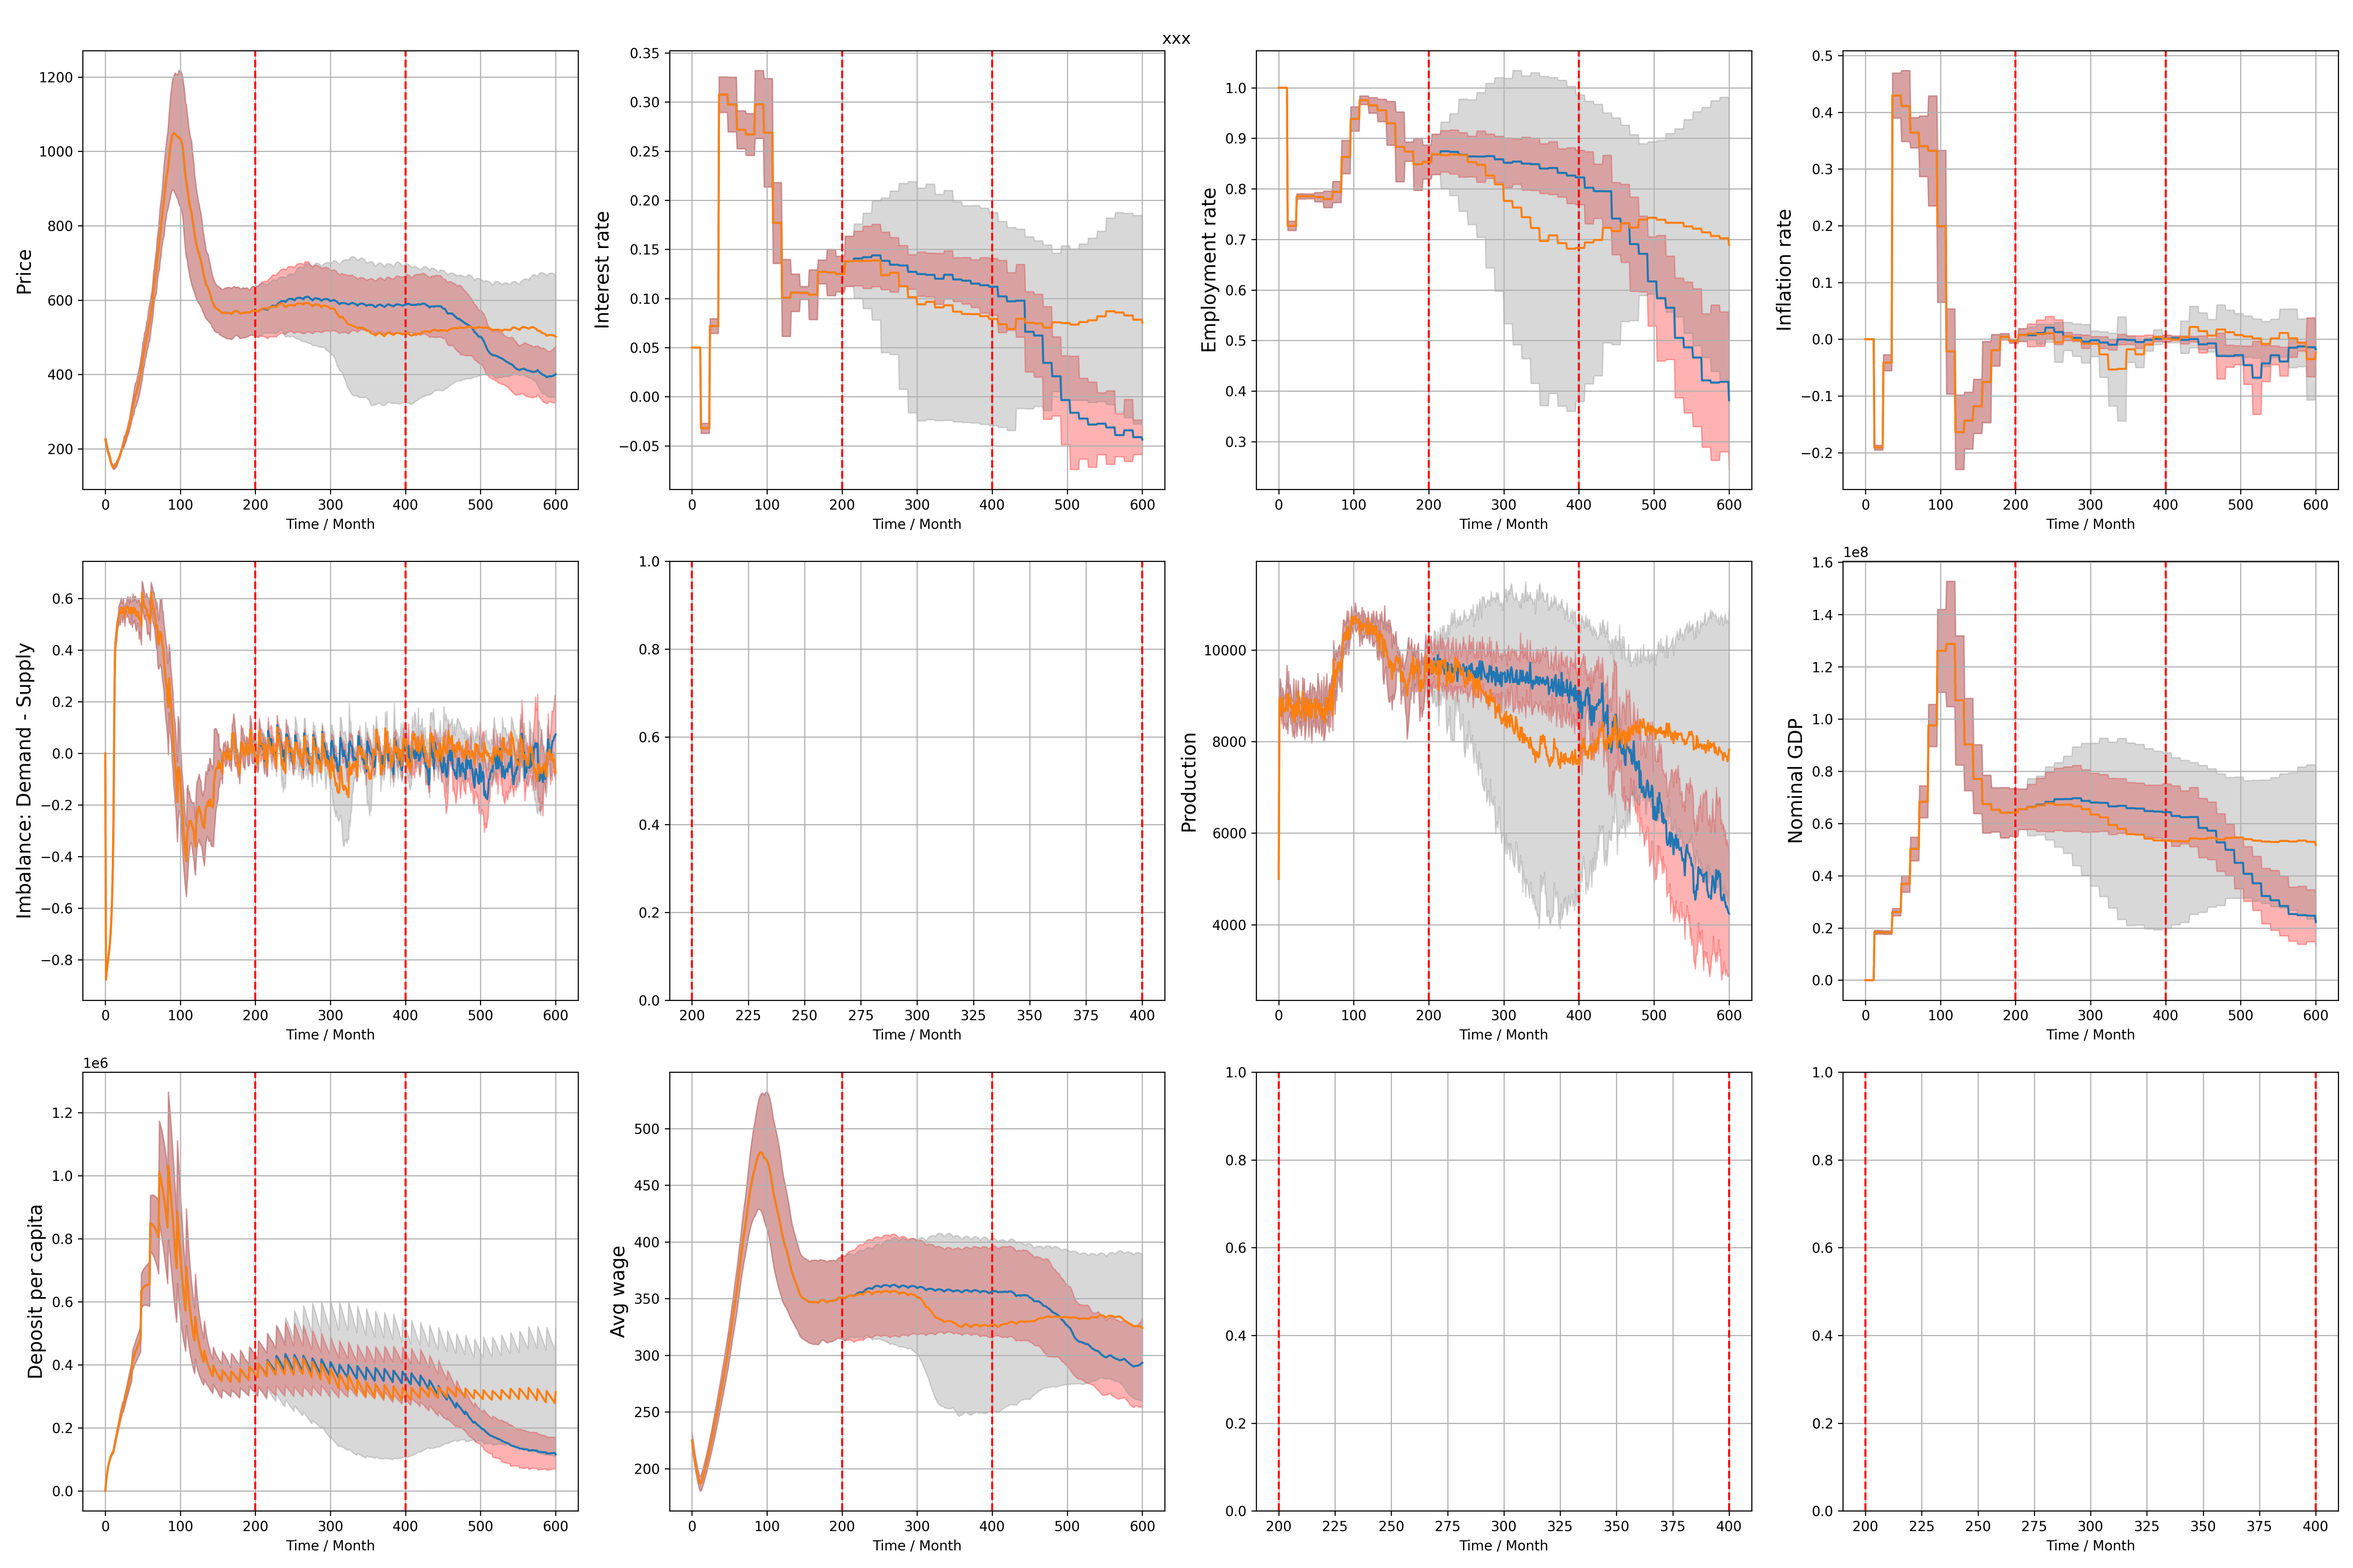
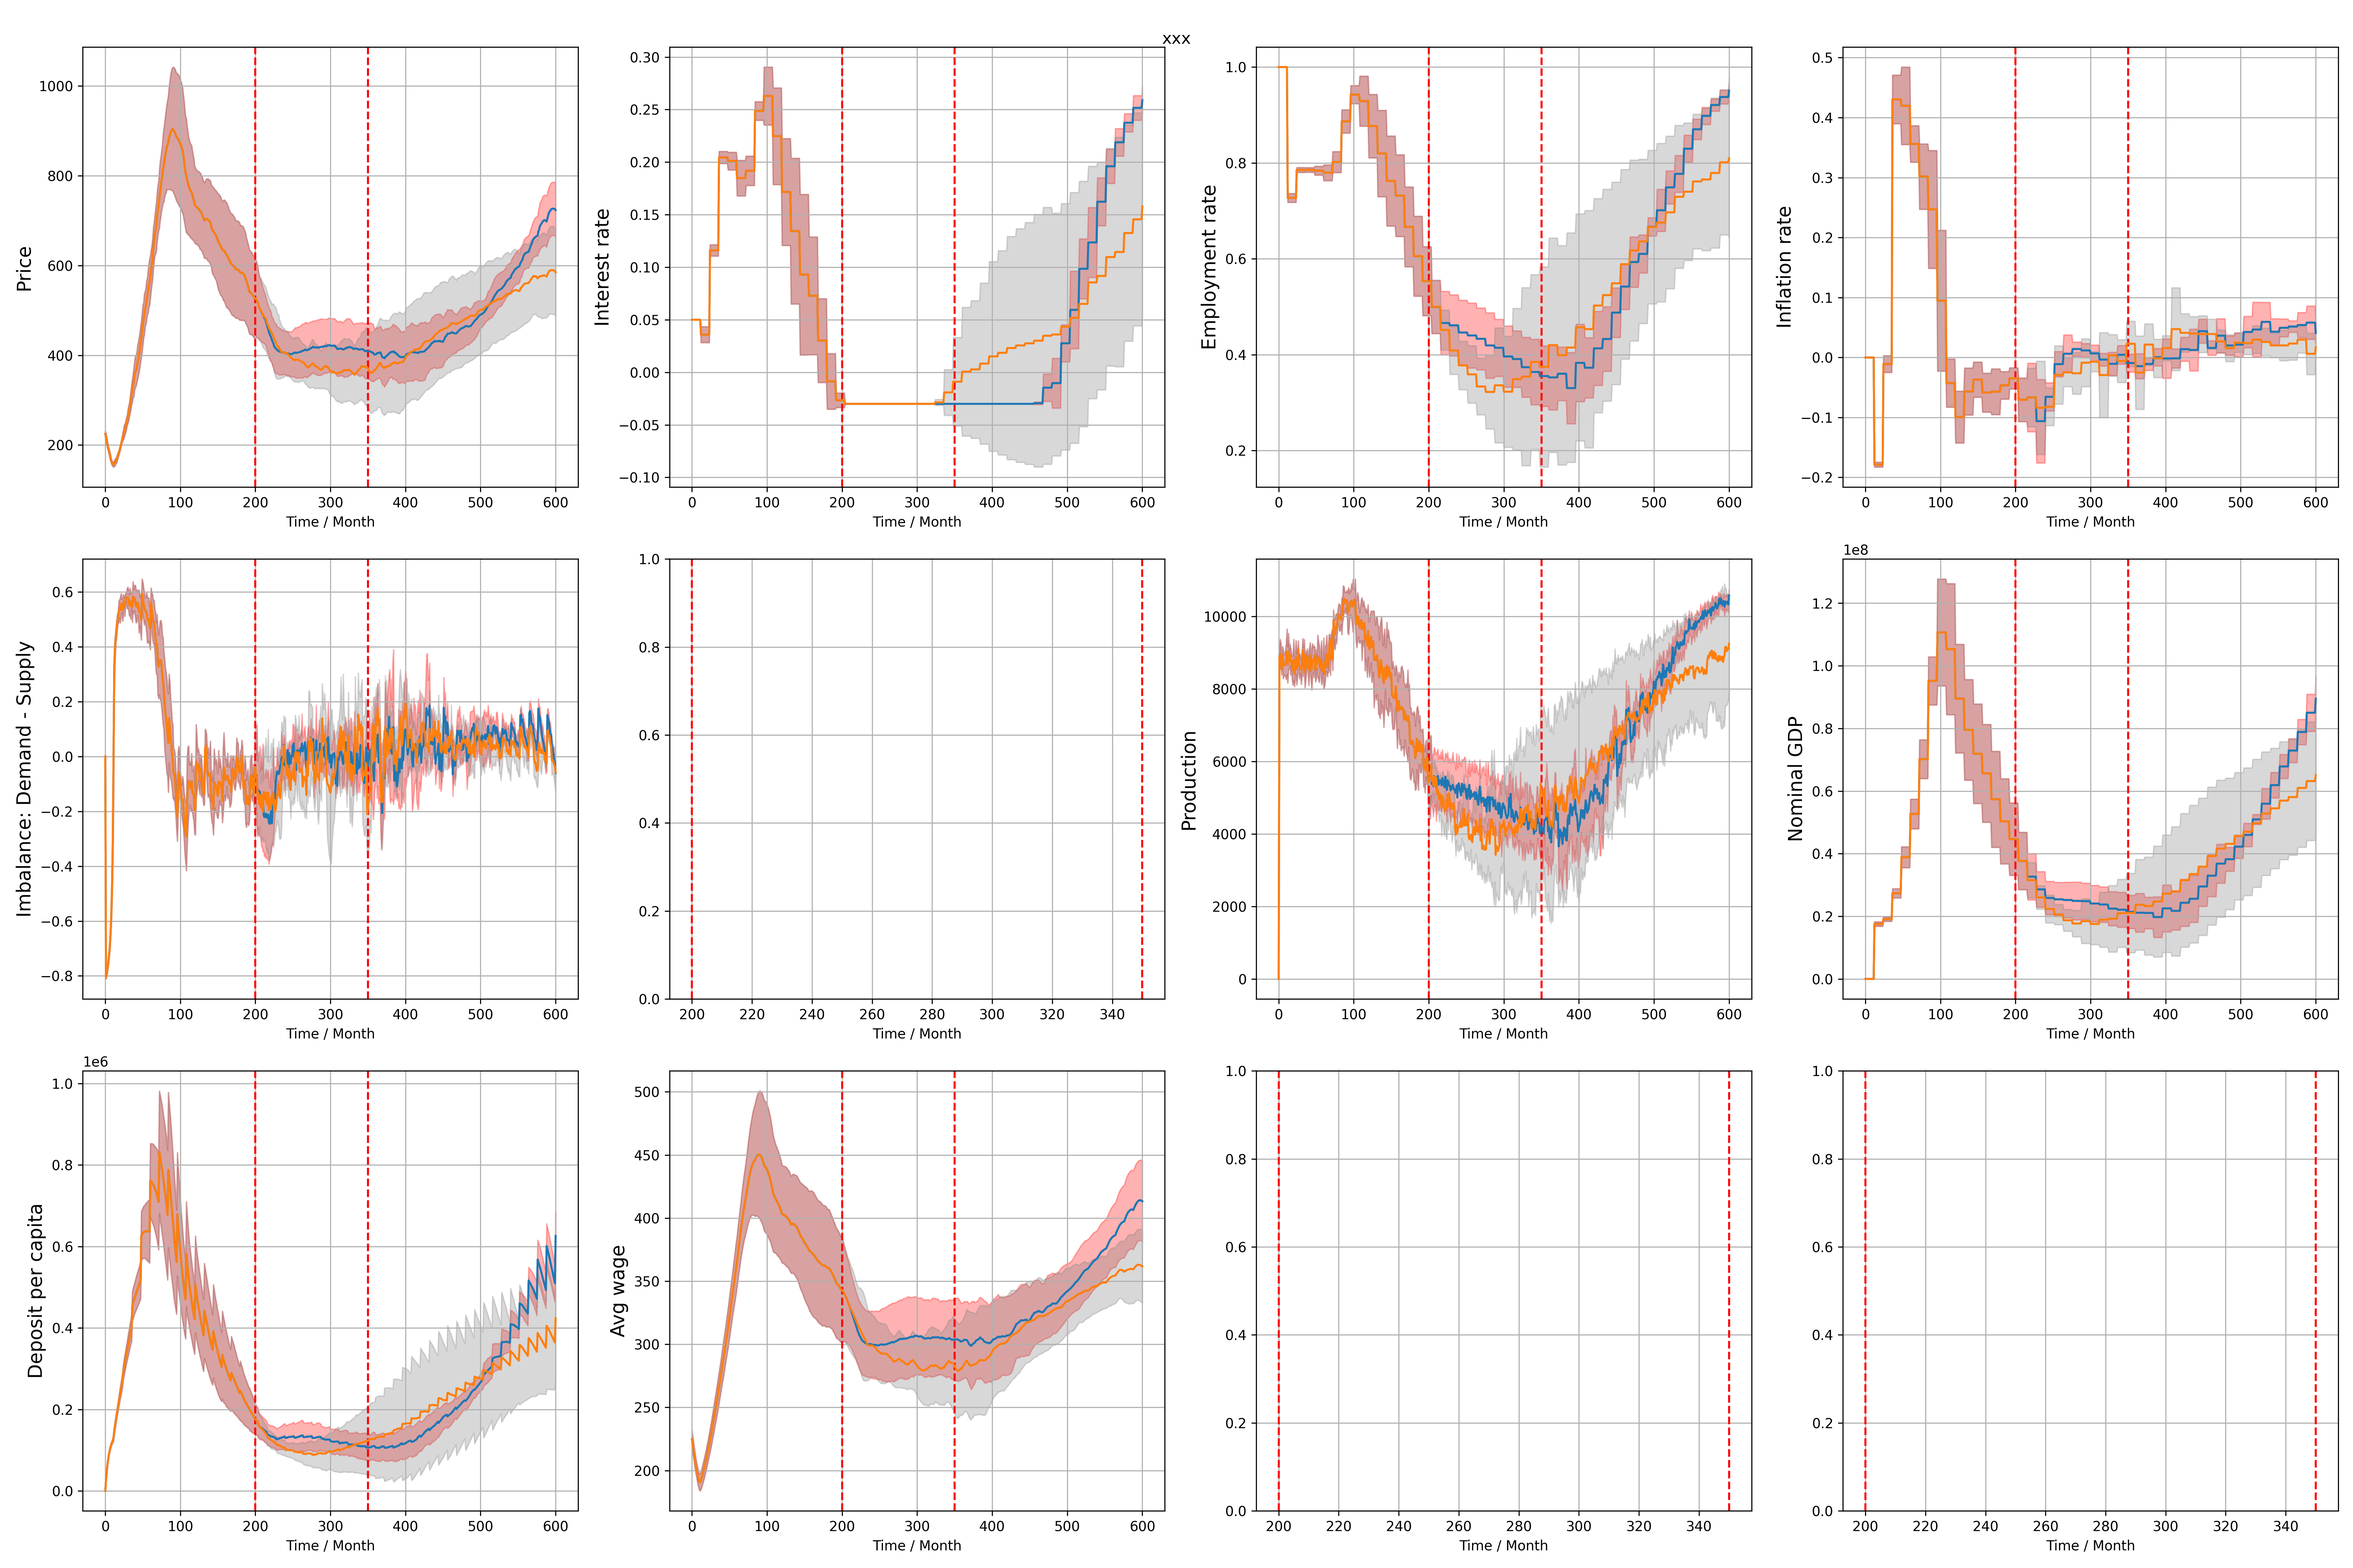
l

diff --git a/main.py b/main.py
@@ -38,8 +38,17 @@ def simulation(config:Configuration, event=False, intervention=False):
     np.random.seed(config.seed)
     
     M = market()
-    F = firm(A=config.A, alpha_w=config.alpha_w, alpha_p=config.alpha_p)
-    B = bank(rn=config.rn, pi_t=config.pi_t, un=config.un, alpha_pi=config.alpha_pi, alpha_u=config.alpha_u, num_agents=config.num_agents)
+    F = firm(A=config.A, 
+             alpha_w=config.alpha_w, 
+             alpha_p=config.alpha_p)
+    B = bank(rn=config.rn, 
+             pi_t=config.pi_t, 
+             un=config.un, 
+             alpha_pi=config.alpha_pi, 
+             alpha_u=config.alpha_u, 
+             num_agents=config.num_agents, 
+             rate_min=config.r_min,
+             )
     agents = init_agents(config)
 
     F.P = np.mean([a.w for a in agents]) # t=0 initial price
@@ -102,7 +111,7 @@ def simulation(config:Configuration, event=False, intervention=False):
             
             ################ 干 预 开 始 ################
             if t >= config.intervent_start and t <= config.intervent_end and intervention:
-                B.deposit(a.id, w + sum(taxes)/config.num_agents + 1000) # 0.04*B.deposits[a.id] redistribution
+                B.deposit(a.id, w + sum(taxes)/config.num_agents + 1500) # 0.04*B.deposits[a.id] redistribution
             else:
                 B.deposit(a.id, w + sum(taxes)/config.num_agents) # redistribution
             ################ 干 预 结 束 ################

diff --git a/src/bank.py b/src/bank.py
@@ -4,13 +4,14 @@ class bank:
     '''
     central bank
     '''
-    def __init__(self, rn:float, pi_t:float, un:float, alpha_pi:float, alpha_u:float, num_agents:int):
+    def __init__(self, rn:float, pi_t:float, un:float, alpha_pi:float, alpha_u:float, num_agents:int, rate_min:float):
         self.rn = rn        # natural interest rate, constant value
         self.pi_t = pi_t    # target inflation rate, constant value
         self.un = un        # natural unemployment rate, constant value
         self.rate = rn      # initial interest rate = natural rate
         self.alpha_pi = alpha_pi
         self.alpha_u = alpha_u
+        self.rate_min = rate_min # minimal interest rate
         self.deposits = {i:0. for i in range(num_agents)} # 注意，id从0开始编号，可能需要修改
     
     def interest(self, agent_list:list[agent],):
@@ -36,6 +37,6 @@ class bank:
         Taylor rule for interest rate adjustment
         
         '''
-        rate_after = max(self.rn + self.pi_t + self.alpha_pi * (inflation_rate - self.pi_t) + self.alpha_u * (self.un - unemployment_rate), -0.05)
+        rate_after = max(self.rn + self.pi_t + self.alpha_pi * (inflation_rate - self.pi_t) + self.alpha_u * (self.un - unemployment_rate), self.rate_min)
         self.rate = rate_after
         return rate_after

diff --git a/config.py b/config.py
@@ -4,7 +4,7 @@ class Configuration:
     ##           干 预 参 数           ##
     #####################################
     event_start = 200
-    event_end = 250
+    event_end = 350
     intervent_start = 200
     intervent_end = 600
     
@@ -30,8 +30,9 @@ class Configuration:
     rn = 0.05 # 0.01         # natural interest rate 自然利率
     pi_t = 0.1 # 0.02        # target inflation rate 目标通膨率
     un = 0.2 # 0.04          # natural unemployment rate 自然失业率
-    alpha_pi = 0.5
+    alpha_pi = 0.2
     alpha_u = 1 - alpha_pi
+    r_min = -0.05            # minimal inter
     
     
     #####################################

diff --git a/src/firm.py b/src/firm.py
@@ -5,7 +5,7 @@ from src.agent import agent
 class firm:
     def __init__(self, A:float, alpha_w:float, alpha_p:float):
         self.A = A # universal productivity
-        self.G = 5000 # quantity of essential goods
+        self.G = 0 # quantity of essential goods
         self.P = 0 # price of essential goods
         self.alpha_w = alpha_w # wage adjustment parameter
         self.alpha_p = alpha_p # price adjustment parameter
